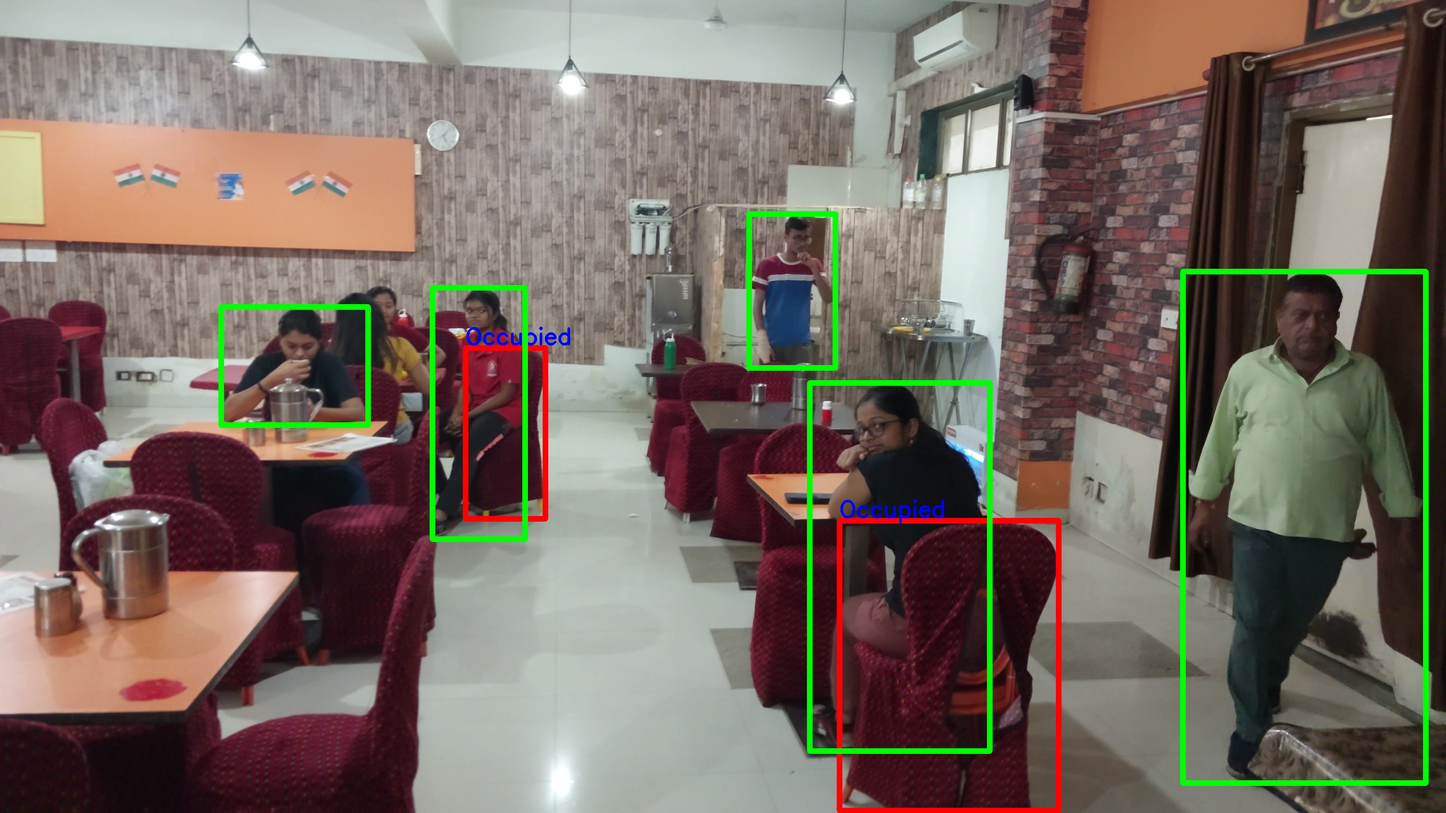
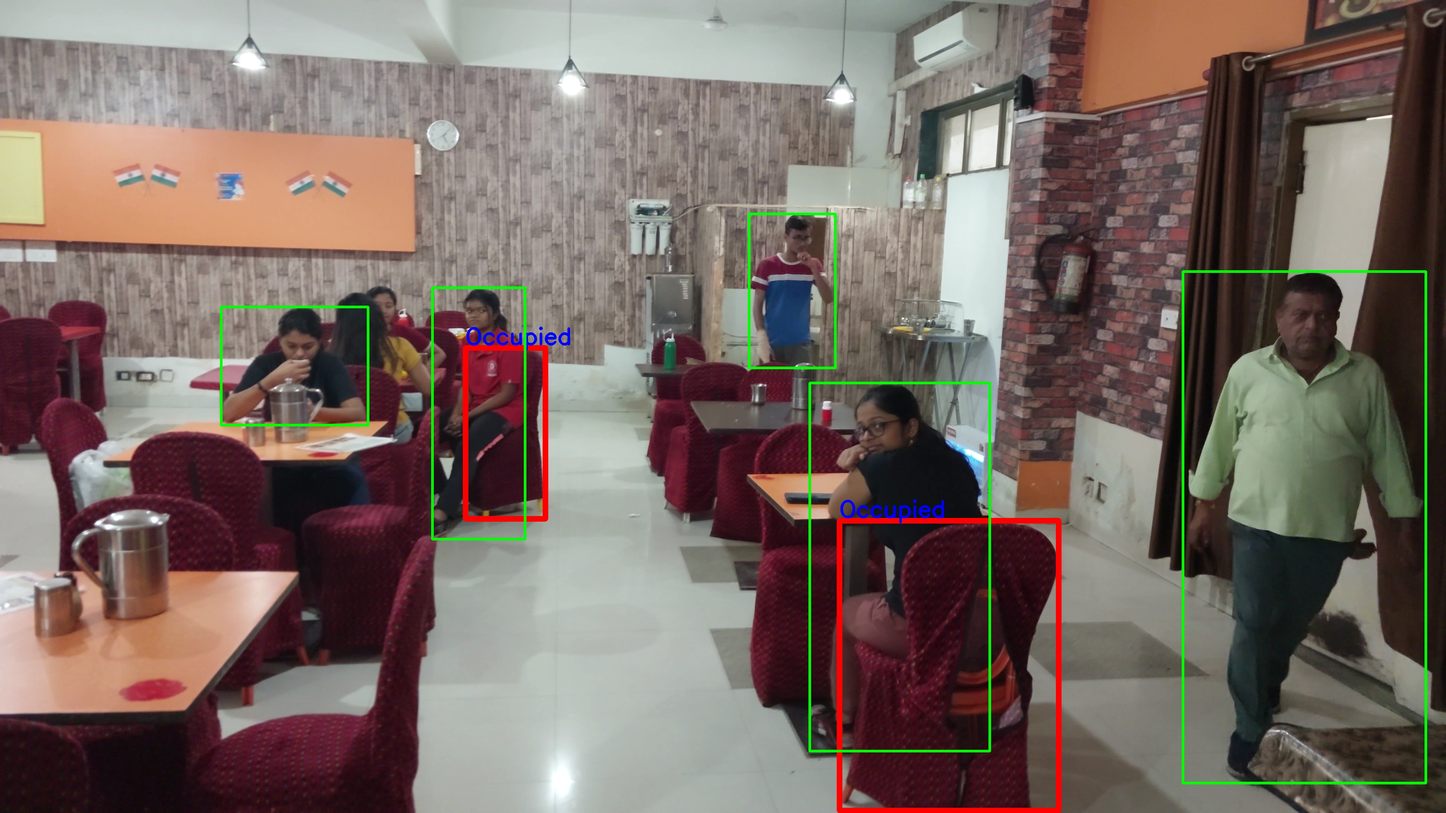
Final with function

diff --git a/main.py b/main.py
@@ -1,6 +1,6 @@
 from ultralytics import YOLO
 import cv2
-import numpy as np
+from iou import calculate_iou
 
 classNames = [
     'person', 'bicycle', 'car', 'motorcycle', 'airplane',
@@ -19,25 +19,49 @@ classNames = [
     'vase', 'scissors', 'teddy bear', 'hair drier', 'toothbrush'
 ]
 model = YOLO('yolov8l.pt')
-results = model('data/frame1.jpg', show=True, conf=0.80)
+results = model('data/frame1.jpg', show=True, conf=0.6)
 image = cv2.imread('data/frame1.jpg')
+
+person_boxes = []
+chair_boxes = []
 
 for r in results:
     boxes = r.boxes
     for box in boxes:
         c = int(box.cls[0])
         cc = classNames[c]
-        if cc in ["person", "chair"]:
-            x1, y1, x2, y2 = box.xyxy[0]
-            x1, y1, x2, y2 = int(x1), int(y1), int(x2), int(y2)
+        x1, y1, x2, y2 = box.xyxy[0]
+        x1, y1, x2, y2 = int(x1), int(y1), int(x2), int(y2)
 
-            # Draw bounding box on the image
-            color = (0, 255, 0)  # Green color
+        if cc == "person":
+            person_boxes.append((x1, y1, x2, y2))
+        elif cc == "chair":
+            chair_boxes.append((x1, y1, x2, y2))
+
+# Apply Intersection over Union
+for chair_box in chair_boxes:
+    for person_box in person_boxes:
+        iou = calculate_iou(chair_box, person_box)
+        
+        # If IoU is above a threshold, change the chair's bounding box color to red
+        if iou > 0.3:
+            x1_chair, y1_chair, x2_chair, y2_chair = chair_box
+            color = (0, 0, 255)  # Red color for chair
             thickness = 13  # Line thickness
-            cv2.rectangle(image, (x1, y1), (x2, y2), color, thickness)
+            cv2.rectangle(image, (x1_chair, y1_chair), (x2_chair, y2_chair), color, thickness)
+            # Put text on the image
+            cv2.putText(image, "Occupied", (x1_chair, y1_chair - 10), cv2.FONT_HERSHEY_SIMPLEX, 2, (255, 0, 0), 6)
+
+# Draw bounding boxes for persons (green color)
+for person_box in person_boxes:
+    x1_person, y1_person, x2_person, y2_person = person_box
+    color = (0, 255, 0)  # Green color for persons
+    thickness = 5  # Line thickness
+    cv2.rectangle(image, (x1_person, y1_person), (x2_person, y2_person), color, thickness)
 
 cv2.namedWindow("Image with Bounding Boxes", cv2.WINDOW_NORMAL)
 cv2.imshow("Image with Bounding Boxes", image)
+cv2.imwrite('output.jpg', image)
 
 # Define a flag to control the loop
 exit_flag = False
@@ -50,5 +74,3 @@ while True:
 
 if exit_flag:
     cv2.destroyAllWindows()  # Close the OpenCV window
-
-cv2.imwrite('output.jpg', image)  # Save the image with bounding boxes

diff --git a/iou.py b/iou.py
@@ -1,0 +1,18 @@
+def calculate_iou(box1, box2):
+    x1_box1, y1_box1, x2_box1, y2_box1 = box1
+    x1_box2, y1_box2, x2_box2, y2_box2 = box2
+
+    # Calculate the intersection coordinates
+    x_left = max(x1_box1, x1_box2)
+    y_top = max(y1_box1, y1_box2)
+    x_right = min(x2_box1, x2_box2)
+    y_bottom = min(y2_box1, y2_box2)
+
+    if x_right > x_left and y_bottom > y_top:
+        intersection_area = (x_right - x_left) * (y_bottom - y_top)
+        box1_area = (x2_box1 - x1_box1) * (y2_box1 - y1_box1)
+        box2_area = (x2_box2 - x1_box2) * (y2_box2 - y1_box2)
+        iou = intersection_area / (box1_area + box2_area - intersection_area)
+        return iou
+    else:
+        return 0
